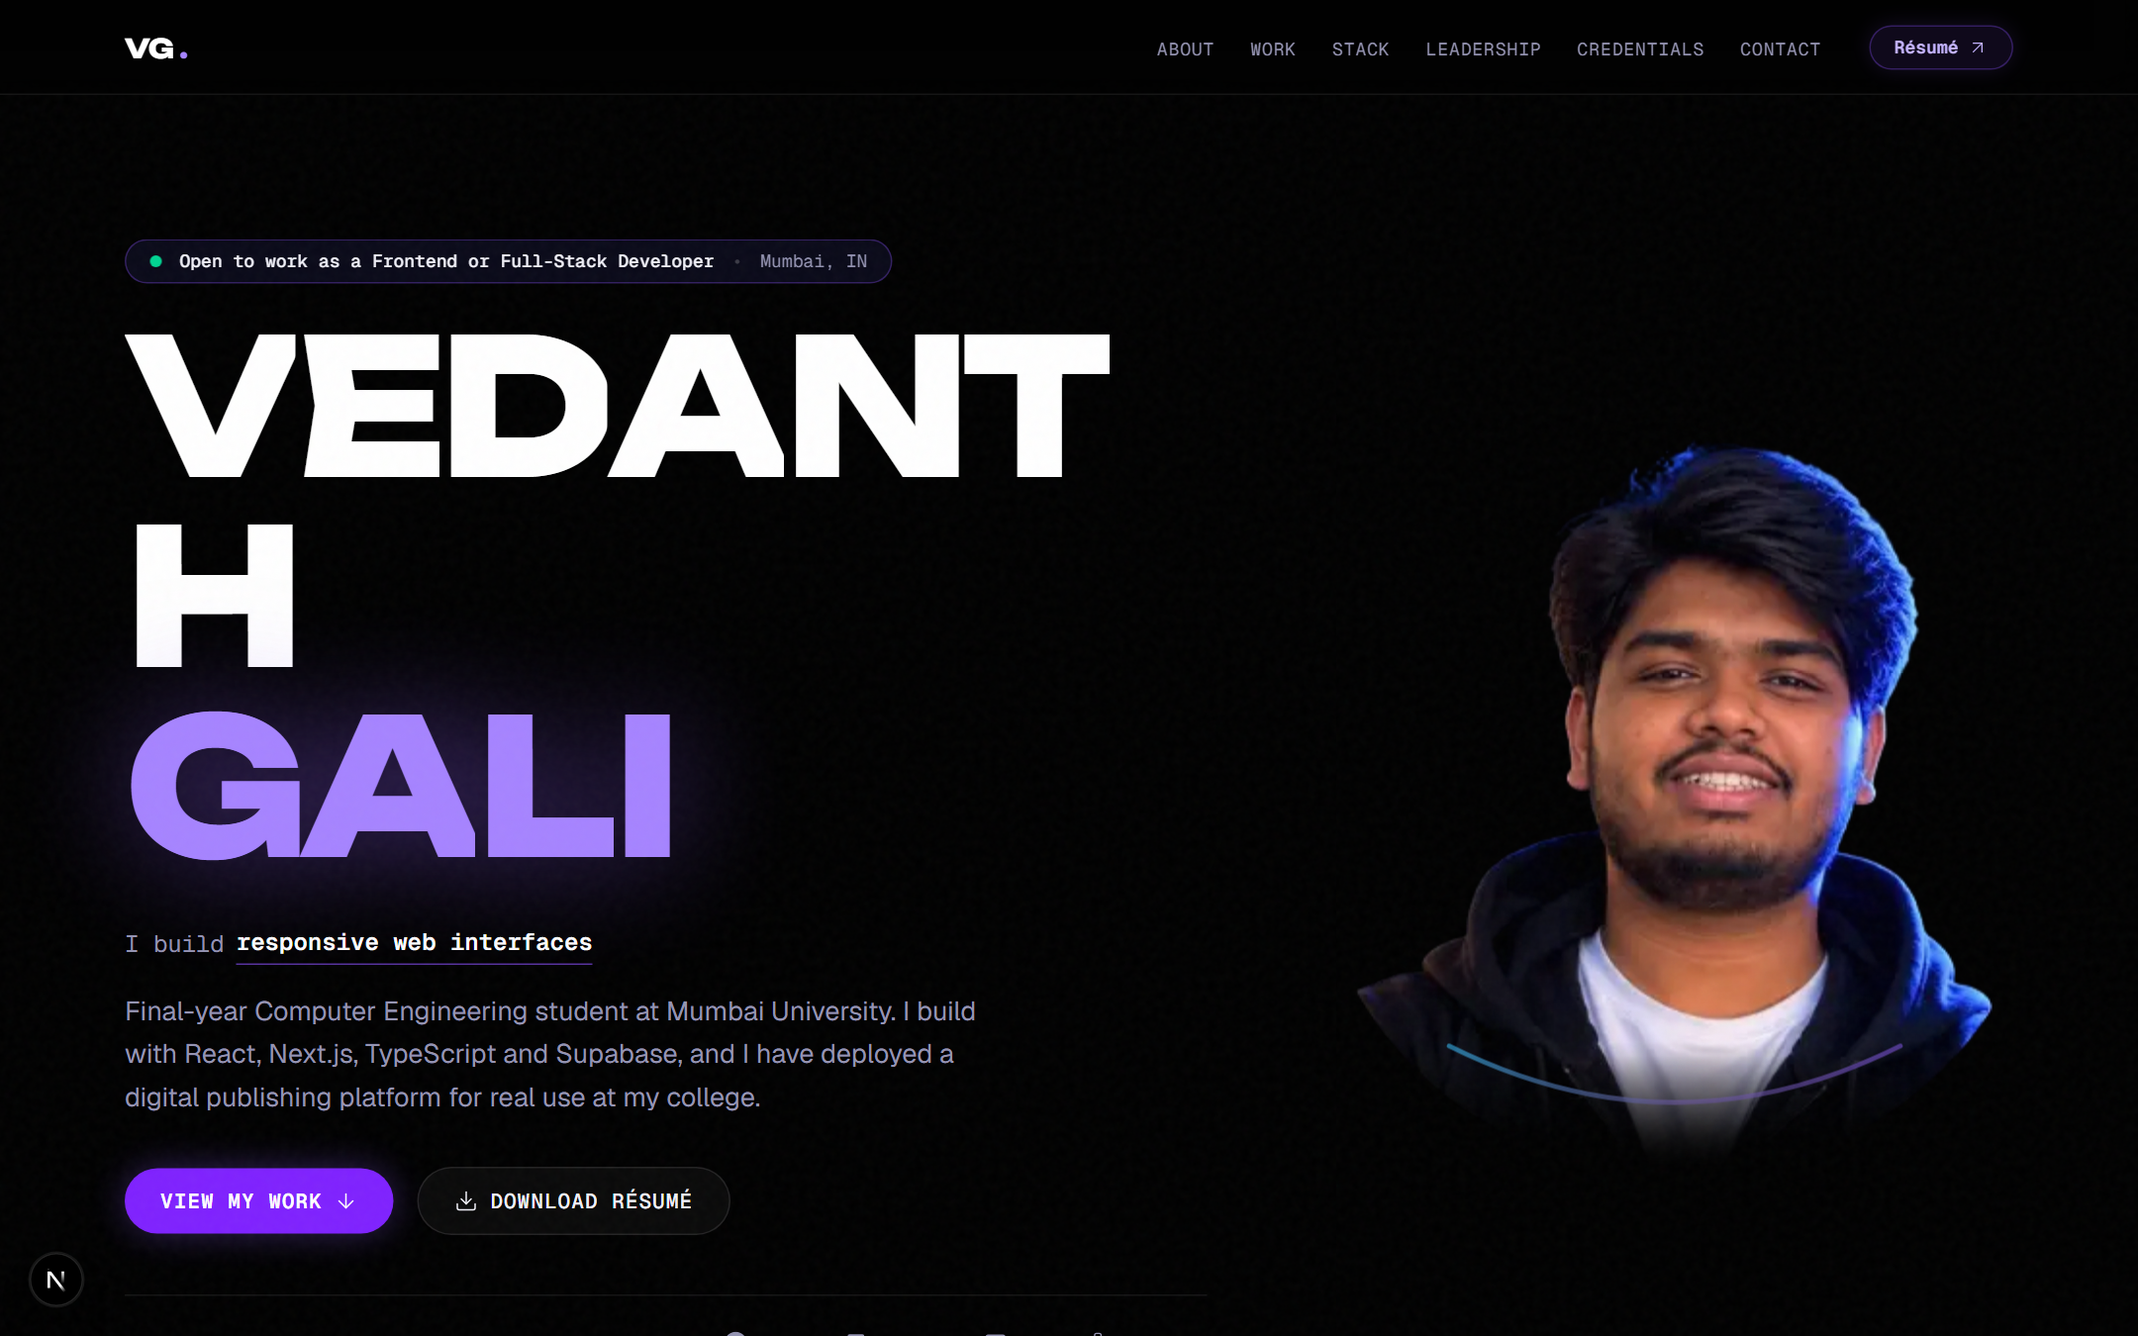
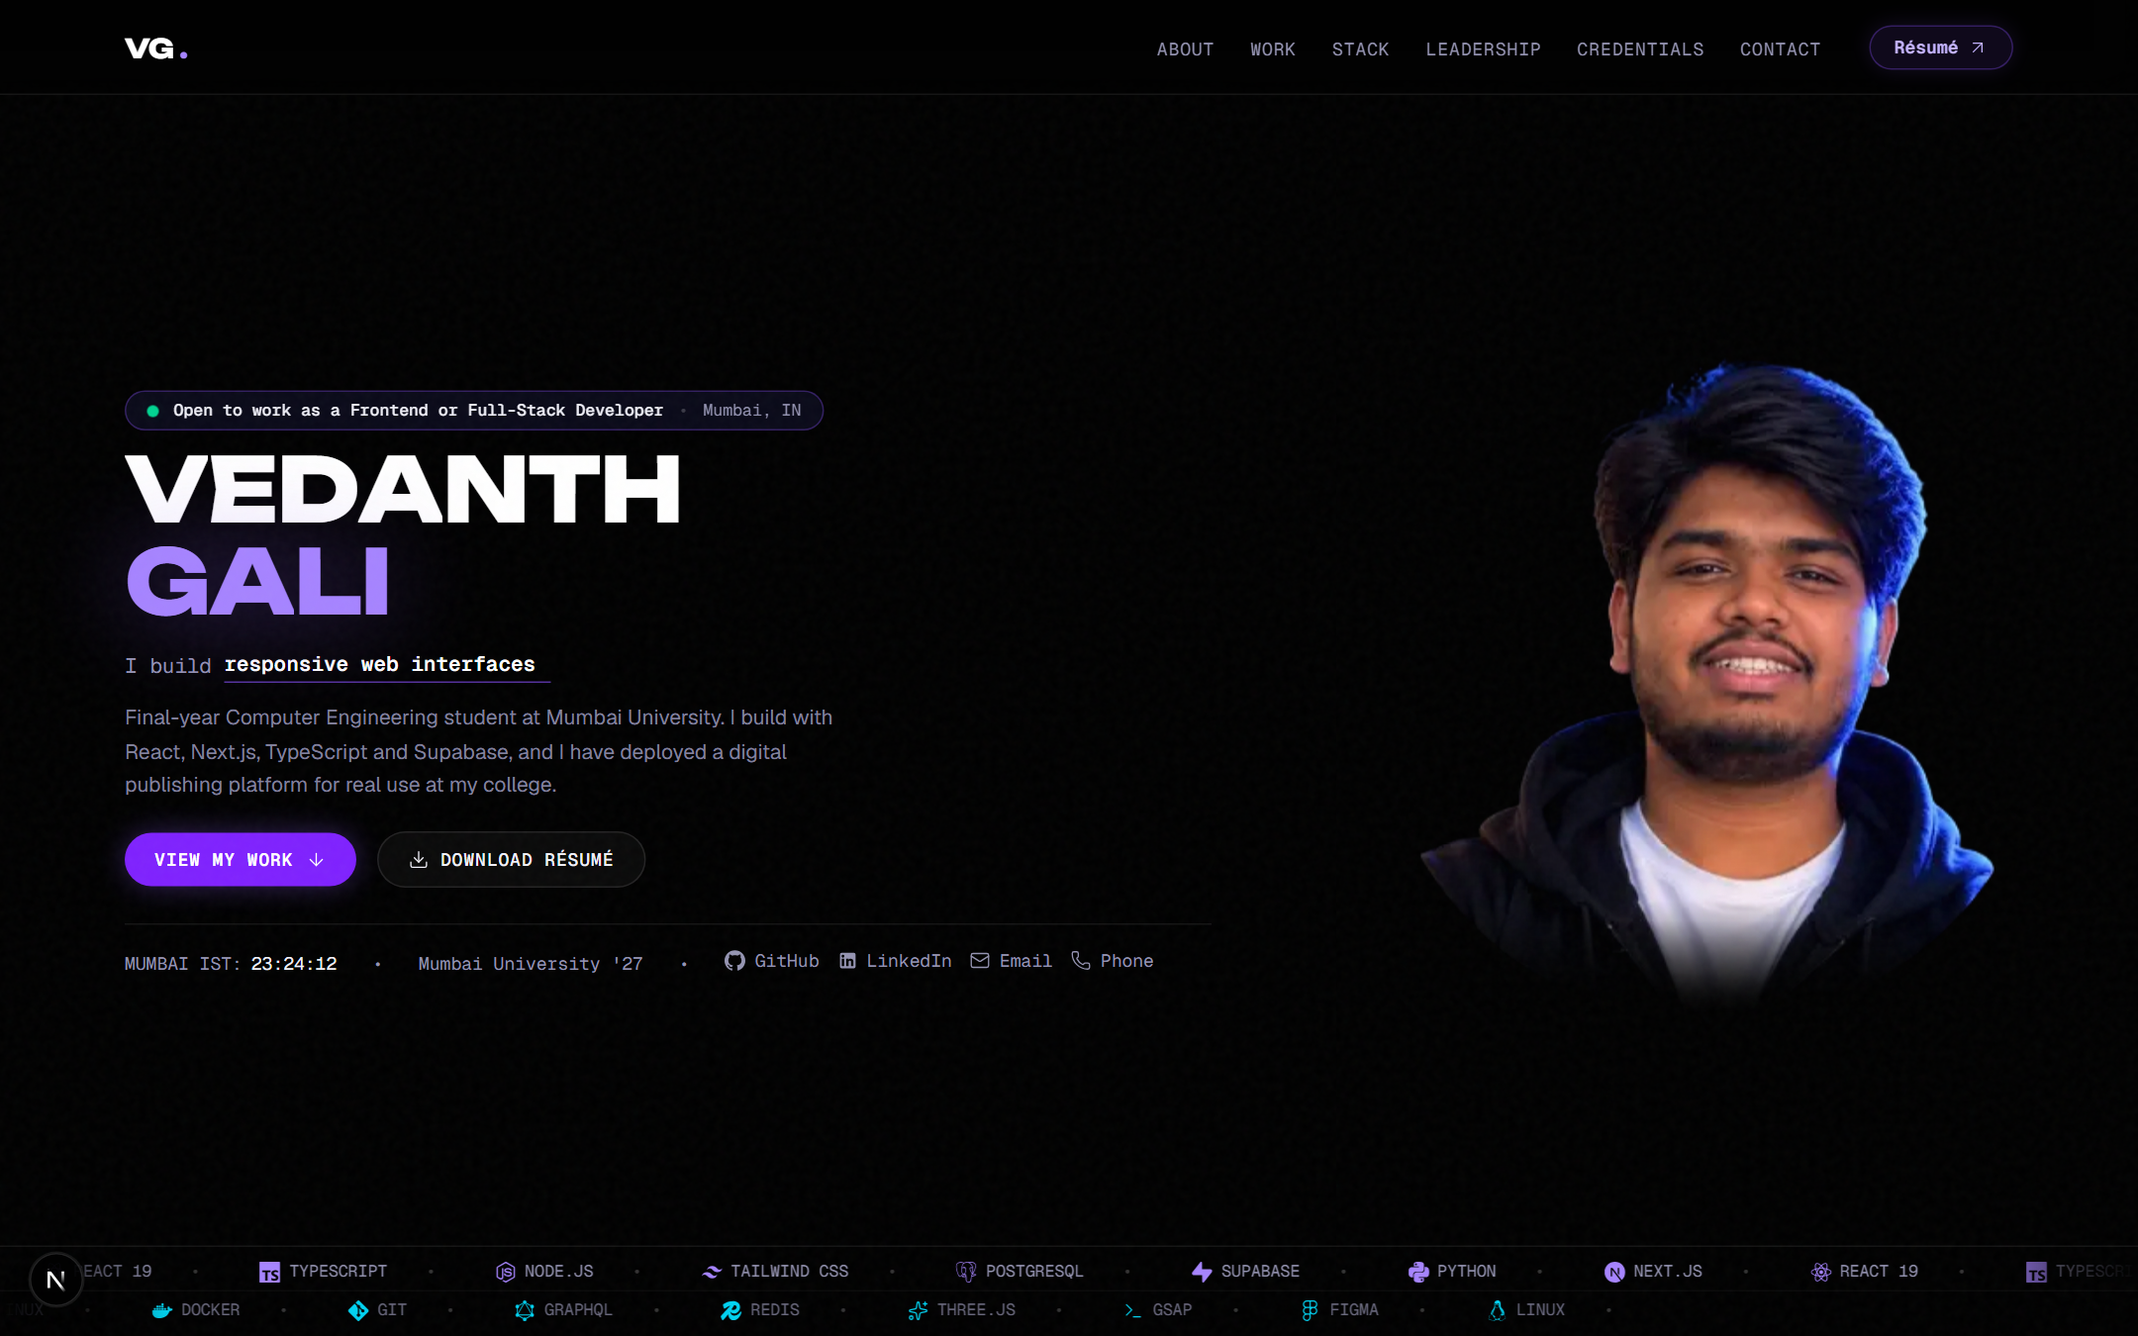
fix(hero): calibrate typography scale, prevent split word wrapping, and center energy ring on head

diff --git a/src/components/sections/Hero.tsx b/src/components/sections/Hero.tsx
@@ -63,22 +63,22 @@ export function Hero({ profile, socialLinks }: HeroProps) {
   }, [shouldReduceMotion])
 
   return (
-    <section className="relative flex min-h-[100svh] flex-col justify-between overflow-hidden bg-black pt-28 sm:pt-32">
-      {/* Background Ambient Violet & Indigo Wash */}
+    <section className="relative flex min-h-[100svh] lg:h-[100svh] flex-col justify-between overflow-hidden bg-black pt-20 sm:pt-24 lg:pt-20">
+      {/* Background Ambient Violet & Cyan Glow */}
       <div
         aria-hidden="true"
-        className="pointer-events-none absolute inset-0 -z-10 bg-[radial-gradient(circle_at_70%_40%,rgba(56,189,248,0.07),transparent_55%),radial-gradient(circle_at_25%_60%,rgba(139,92,246,0.1),transparent_50%)]"
+        className="pointer-events-none absolute inset-0 -z-10 bg-[radial-gradient(circle_at_70%_35%,rgba(56,189,248,0.08),transparent_50%),radial-gradient(circle_at_25%_60%,rgba(139,92,246,0.12),transparent_50%)]"
       />
 
-      {/* Main 2-Column Stage */}
-      <div className="mx-auto my-auto w-full max-w-[1320px] px-6 py-8">
-        <div className="grid items-center gap-12 lg:grid-cols-12 lg:gap-8">
+      {/* Main 2-Column Content Stage */}
+      <div className="mx-auto my-auto w-full max-w-[1320px] px-6 py-4 sm:py-6">
+        <div className="grid items-center gap-8 lg:grid-cols-12 lg:gap-6">
           
-          {/* Left Column: Editorial Content (7 cols on desktop) */}
+          {/* Left Column: Balanced Editorial Content (7 cols on desktop) */}
           <div className="z-20 lg:col-span-7">
             
             {/* Status & Location Pill */}
-            <div className="mb-6 inline-flex items-center gap-3 rounded-full border border-violet-500/30 bg-surface/80 px-4 py-1.5 font-mono text-xs backdrop-blur-md">
+            <div className="mb-3 inline-flex items-center gap-2.5 rounded-full border border-violet-500/30 bg-surface/80 px-3.5 py-1 font-mono text-[11px] backdrop-blur-md">
               <span className="relative flex h-2 w-2">
                 <span className="absolute inline-flex h-full w-full animate-ping rounded-full bg-emerald-400 opacity-75" />
                 <span className="relative inline-flex h-2 w-2 rounded-full bg-emerald-400" />
@@ -88,38 +88,38 @@ export function Hero({ profile, socialLinks }: HeroProps) {
               <span className="text-muted">Mumbai, IN</span>
             </div>
 
-            {/* Kinetic Hero Display Headline */}
-            <h1 className="font-display text-5xl font-black uppercase leading-[0.92] tracking-tighter sm:text-7xl md:text-8xl xl:text-9xl">
-              <span className="block text-white">
-                <SplitText text="VEDANTH" delay={0.2} stagger={0.035} />
+            {/* Kinetic Hero Display Headline (Properly Proportioned, No Wrapping) */}
+            <h1 className="font-display text-4xl sm:text-5xl md:text-6xl lg:text-5xl xl:text-6xl 2xl:text-7xl font-black uppercase leading-[0.94] tracking-tight">
+              <span className="block whitespace-nowrap text-white">
+                <SplitText text="VEDANTH" delay={0.15} stagger={0.03} />
               </span>
-              <span className="block text-violet-400 drop-shadow-[0_0_40px_rgba(139,92,246,0.5)]">
-                <SplitText text="GALI" delay={0.45} stagger={0.04} />
+              <span className="block whitespace-nowrap text-violet-400 drop-shadow-[0_0_35px_rgba(139,92,246,0.5)]">
+                <SplitText text="GALI" delay={0.35} stagger={0.035} />
               </span>
             </h1>
 
             {/* Dynamic Rotating Line */}
-            <div className="mt-6 flex items-center gap-2 font-mono text-sm sm:text-base text-muted">
+            <div className="mt-3 flex items-center gap-2 font-mono text-xs sm:text-sm text-muted">
               <span>I build</span>
-              <span className="inline-block min-w-[240px] font-semibold text-white border-b border-violet-500/60 pb-0.5 transition-all">
+              <span className="inline-block min-w-[220px] font-semibold text-white border-b border-violet-500/60 pb-0.5 transition-all">
                 {shouldReduceMotion ? ROTATING_PHRASES[0] : ROTATING_PHRASES[phraseIndex]}
               </span>
             </div>
 
             {/* Concise Bio */}
-            <p className="mt-4 max-w-xl text-base sm:text-lg leading-relaxed text-muted">
+            <p className="mt-3 max-w-lg text-xs sm:text-sm leading-relaxed text-muted/90">
               {shortBio}
             </p>
 
             {/* Magnetic CTAs */}
-            <div className="mt-8 flex flex-wrap items-center gap-4">
+            <div className="mt-5 flex flex-wrap items-center gap-3.5">
               <Magnetic strength={0.3}>
                 <a
                   href="#work"
-                  className="inline-flex items-center gap-2 rounded-full bg-violet-600 px-6 py-3 font-mono text-xs sm:text-sm font-semibold uppercase tracking-wider text-white shadow-[0_0_25px_rgba(139,92,246,0.35)] transition-all hover:bg-violet-500 hover:shadow-[0_0_35px_rgba(139,92,246,0.55)]"
+                  className="inline-flex items-center gap-2 rounded-full bg-violet-600 px-5 py-2.5 font-mono text-xs font-semibold uppercase tracking-wider text-white shadow-[0_0_20px_rgba(139,92,246,0.35)] transition-all hover:bg-violet-500 hover:shadow-[0_0_30px_rgba(139,92,246,0.55)]"
                 >
                   <span>View My Work</span>
-                  <Icon name="arrow-down" size={16} />
+                  <Icon name="arrow-down" size={14} />
                 </a>
               </Magnetic>
 
@@ -128,21 +128,21 @@ export function Hero({ profile, socialLinks }: HeroProps) {
                   href={profile?.resume_url || '#contact'}
                   target={profile?.resume_url ? '_blank' : undefined}
                   rel="noopener noreferrer"
-                  className="inline-flex items-center gap-2 rounded-full border border-white/10 bg-white/[0.04] px-6 py-3 font-mono text-xs sm:text-sm font-medium uppercase tracking-wider text-text-lilac transition-all hover:border-white/20 hover:bg-white/[0.08]"
+                  className="inline-flex items-center gap-2 rounded-full border border-white/10 bg-white/[0.04] px-5 py-2.5 font-mono text-xs font-medium uppercase tracking-wider text-text-lilac transition-all hover:border-white/20 hover:bg-white/[0.08]"
                 >
-                  <Icon name="download" size={16} />
+                  <Icon name="download" size={14} />
                   <span>Download Résumé</span>
                 </a>
               </Magnetic>
             </div>
 
             {/* Live Metadata & Social Rail */}
-            <div className="mt-10 flex flex-wrap items-center gap-6 border-t border-white/[0.08] pt-6 font-mono text-xs text-muted">
+            <div className="mt-6 flex flex-wrap items-center gap-4 sm:gap-6 border-t border-white/[0.08] pt-4 font-mono text-xs text-muted">
               <Clock showPrefix className="text-xs" />
               <span>•</span>
               <span>Mumbai University '27</span>
               <span>•</span>
-              <div className="flex items-center gap-4">
+              <div className="flex items-center gap-3">
                 {socialLinks.map((link) => (
                   <Magnetic key={link.id} strength={0.25}>
                     <a
@@ -152,7 +152,7 @@ export function Hero({ profile, socialLinks }: HeroProps) {
                       className="inline-flex items-center gap-1.5 text-text-lilac transition-colors hover:text-violet-300"
                       aria-label={link.label}
                     >
-                      <Icon name={link.label} size={15} />
+                      <Icon name={link.label} size={14} />
                       <span className="hidden sm:inline">{link.label}</span>
                     </a>
                   </Magnetic>
@@ -162,7 +162,7 @@ export function Hero({ profile, socialLinks }: HeroProps) {
 
           </div>
 
-          {/* Right Column: Balanced Portrait Cutout with WebGL Neon Energy Ring (5 cols) */}
+          {/* Right Column: Balanced Cutout with Energy Ring Centered on Head (5 cols) */}
           <div className="relative flex items-center justify-center lg:col-span-5 lg:justify-end">
             <HeroPortrait
               avatarUrl="/images/vedanth-cutout.webp"
@@ -173,27 +173,27 @@ export function Hero({ profile, socialLinks }: HeroProps) {
         </div>
       </div>
 
-      {/* Bottom Dual-Row Tech Marquee Strip */}
-      <div className="relative z-10 border-t border-white/[0.08] bg-black/80 backdrop-blur-md py-3 overflow-hidden">
-        {/* Row 1: Left */}
-        <Marquee direction="left" speed={28} gap="2.5rem" className="text-xs font-mono text-muted uppercase">
+      {/* Bottom Dual-Row Tech Marquee Strip (Compact & Clean) */}
+      <div className="relative z-10 border-t border-white/[0.08] bg-black/85 backdrop-blur-md py-2 overflow-hidden">
+        {/* Row 1 */}
+        <Marquee direction="left" speed={28} gap="2.5rem" className="text-[11px] font-mono text-muted uppercase">
           {MARQUEE_ROW_1.map((item, idx) => (
-            <span key={idx} className="inline-flex items-center gap-2 hover:text-white transition-colors">
-              <Icon name={item.icon} size={15} className="text-violet-400" />
+            <span key={idx} className="inline-flex items-center gap-1.5 hover:text-white transition-colors">
+              <Icon name={item.icon} size={14} className="text-violet-400" />
               <span>{item.name}</span>
-              <span className="text-white/20 ml-6">•</span>
+              <span className="text-white/20 ml-5">•</span>
             </span>
           ))}
         </Marquee>
 
-        {/* Row 2: Right */}
-        <div className="mt-1.5 border-t border-white/[0.04] pt-1.5">
-          <Marquee direction="right" speed={32} gap="2.5rem" className="text-xs font-mono text-muted/70 uppercase">
+        {/* Row 2 */}
+        <div className="mt-1 border-t border-white/[0.04] pt-1">
+          <Marquee direction="right" speed={32} gap="2.5rem" className="text-[11px] font-mono text-muted/70 uppercase">
             {MARQUEE_ROW_2.map((item, idx) => (
-              <span key={idx} className="inline-flex items-center gap-2 hover:text-white transition-colors">
-                <Icon name={item.icon} size={15} className="text-cyan-400" />
+              <span key={idx} className="inline-flex items-center gap-1.5 hover:text-white transition-colors">
+                <Icon name={item.icon} size={14} className="text-cyan-400" />
                 <span>{item.name}</span>
-                <span className="text-white/20 ml-6">•</span>
+                <span className="text-white/20 ml-5">•</span>
               </span>
             ))}
           </Marquee>

diff --git a/src/components/sections/HeroPortrait.tsx b/src/components/sections/HeroPortrait.tsx
@@ -25,7 +25,7 @@ export function HeroPortrait({ avatarUrl, avatarAlt = 'Vedanth Gali' }: HeroPort
       const { innerWidth, innerHeight } = window
       const x = (e.clientX / innerWidth - 0.5) * 2 // -1 to 1
       const y = (e.clientY / innerHeight - 0.5) * 2
-      setTilt({ x: x * 4, y: y * -4 }) // up to 4 degrees
+      setTilt({ x: x * 3.5, y: y * -3.5 }) // up to 3.5 degrees
     }
 
     window.addEventListener('mousemove', handleMouseMove, { passive: true })
@@ -33,16 +33,23 @@ export function HeroPortrait({ avatarUrl, avatarAlt = 'Vedanth Gali' }: HeroPort
   }, [shouldReduceMotion])
 
   return (
-    <div className="relative flex w-full max-w-[500px] items-center justify-center lg:justify-end">
-      {/* Layer 1: Ambient background wash */}
+    <div className="relative flex w-full max-w-[440px] items-center justify-center lg:justify-end">
+      {/* Layer 1: Ambient radial background glow centered on head */}
       <div
         aria-hidden="true"
-        className="pointer-events-none absolute top-1/2 left-1/2 -z-20 h-[420px] w-[420px] -translate-x-1/2 -translate-y-1/2 rounded-full bg-violet-600/[0.12] blur-[100px]"
+        className="pointer-events-none absolute top-[35%] left-1/2 -z-20 h-[360px] w-[360px] -translate-x-1/2 -translate-y-1/2 rounded-full bg-violet-600/[0.18] blur-[90px]"
+      />
+      <div
+        aria-hidden="true"
+        className="pointer-events-none absolute top-[30%] left-[35%] -z-20 h-[240px] w-[240px] -translate-x-1/2 -translate-y-1/2 rounded-full bg-cyan-400/[0.14] blur-[80px]"
       />
 
-      {/* Layer 2: WebGL or CSS Energy Ring positioned behind head and body */}
-      <div className="pointer-events-none absolute inset-0 -z-10 flex items-center justify-center">
-        <div className="relative h-[480px] w-[480px] sm:h-[540px] sm:w-[540px]">
+      {/* Layer 2: WebGL or CSS Energy Ring positioned behind head and upper chest */}
+      <div
+        aria-hidden="true"
+        className="pointer-events-none absolute top-[38%] left-1/2 -z-10 flex -translate-x-1/2 -translate-y-1/2 items-center justify-center"
+      >
+        <div className="relative h-[380px] w-[380px] sm:h-[420px] sm:w-[420px] lg:h-[450px] lg:w-[450px]">
           <HeroRingWrapper />
         </div>
       </div>
@@ -57,46 +64,19 @@ export function HeroPortrait({ avatarUrl, avatarAlt = 'Vedanth Gali' }: HeroPort
         transition={{ type: 'spring', stiffness: 220, damping: 22, mass: 0.1 }}
         style={{
           perspective: 1000,
-          maskImage: 'linear-gradient(to bottom, black 84%, transparent 100%)',
-          WebkitMaskImage: 'linear-gradient(to bottom, black 84%, transparent 100%)',
+          maskImage: 'linear-gradient(to bottom, black 85%, transparent 100%)',
+          WebkitMaskImage: 'linear-gradient(to bottom, black 85%, transparent 100%)',
         }}
       >
         <Image
           src={imageSrc}
           alt={avatarAlt || 'Vedanth Gali portrait'}
-          width={400}
-          height={447}
+          width={380}
+          height={425}
           priority
-          sizes="(max-width: 640px) 300px, (max-width: 1024px) 400px, 480px"
-          className="h-[340px] w-auto max-w-full object-contain sm:h-[420px] md:h-[480px] lg:h-[510px] drop-shadow-[0_20px_40px_rgba(0,0,0,0.85)]"
+          sizes="(max-width: 640px) 260px, (max-width: 1024px) 340px, 400px"
+          className="h-[300px] w-auto max-w-full object-contain sm:h-[360px] md:h-[400px] lg:h-[440px] xl:h-[460px] drop-shadow-[0_15px_35px_rgba(0,0,0,0.9)]"
         />
-
-        {/* Layer 4: Depth Illusion — Front Arc wrapping over collar/shoulders */}
-        <div
-          aria-hidden="true"
-          className="pointer-events-none absolute inset-0 z-10 flex items-end justify-center"
-        >
-          <svg
-            className="w-full max-w-[380px] opacity-70"
-            viewBox="0 0 300 80"
-            fill="none"
-            xmlns="http://www.w3.org/2000/svg"
-          >
-            <path
-              d="M 30 10 Q 150 70 270 10"
-              stroke="url(#frontArcGradient)"
-              strokeWidth="2.5"
-              strokeLinecap="round"
-            />
-            <defs>
-              <linearGradient id="frontArcGradient" x1="0%" y1="0%" x2="100%" y2="0%">
-                <stop offset="0%" stopColor="#38bdf8" stopOpacity="0.8" />
-                <stop offset="50%" stopColor="#a78bfa" stopOpacity="0.9" />
-                <stop offset="100%" stopColor="#8b5cf6" stopOpacity="0.7" />
-              </linearGradient>
-            </defs>
-          </svg>
-        </div>
       </motion.div>
     </div>
   )

diff --git a/src/components/three/HeroRingCanvas.tsx b/src/components/three/HeroRingCanvas.tsx
@@ -28,14 +28,14 @@ function CssRingFallback() {
       className="pointer-events-none absolute inset-0 flex items-center justify-center"
     >
       <div
-        className="h-[360px] w-[360px] sm:h-[440px] sm:w-[440px] rounded-full p-[3px] shadow-[0_0_50px_rgba(139,92,246,0.45)]"
+        className="h-[340px] w-[340px] sm:h-[380px] sm:w-[380px] lg:h-[420px] lg:w-[420px] rounded-full p-[2.5px] shadow-[0_0_45px_rgba(139,92,246,0.55),0_0_80px_rgba(56,189,248,0.3)]"
         style={{
           background:
-            'conic-gradient(from 0deg, #38bdf8, #8b5cf6, #a78bfa, #38bdf8)',
+            'conic-gradient(from 0deg, #38bdf8, #8b5cf6, #a78bfa, #00e5ff, #38bdf8)',
           animation: 'spin 14s linear infinite',
         }}
       >
-        <div className="h-full w-full rounded-full bg-black/90" />
+        <div className="h-full w-full rounded-full bg-black/75 backdrop-blur-[2px]" />
       </div>
       <style>{`
         @keyframes spin {

diff --git a/src/components/motion/SplitText.tsx b/src/components/motion/SplitText.tsx
@@ -56,7 +56,7 @@ export function SplitText({
   // by === 'char'
   const chars = Array.from(text)
   return (
-    <span className={`inline-flex flex-wrap ${className}`}>
+    <span className={`inline-flex whitespace-nowrap ${className}`}>
       {chars.map((char, i) => (
         <span key={i} className="inline-block overflow-hidden pb-[0.08em]">
           <motion.span
